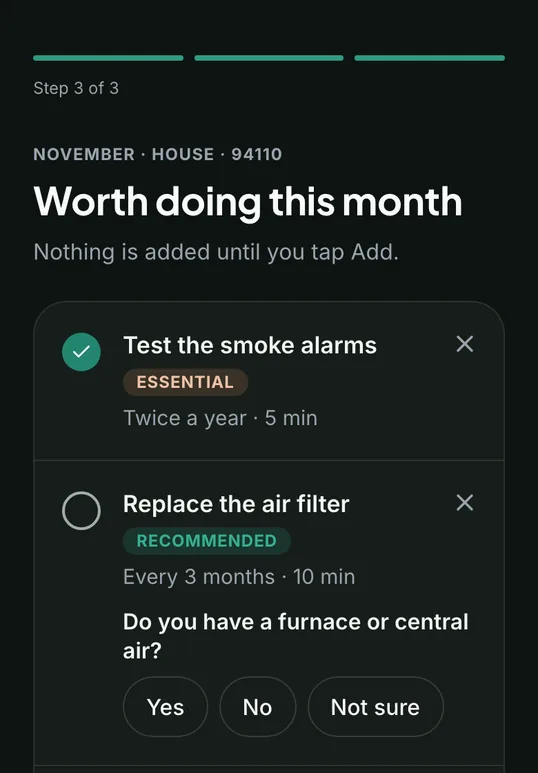
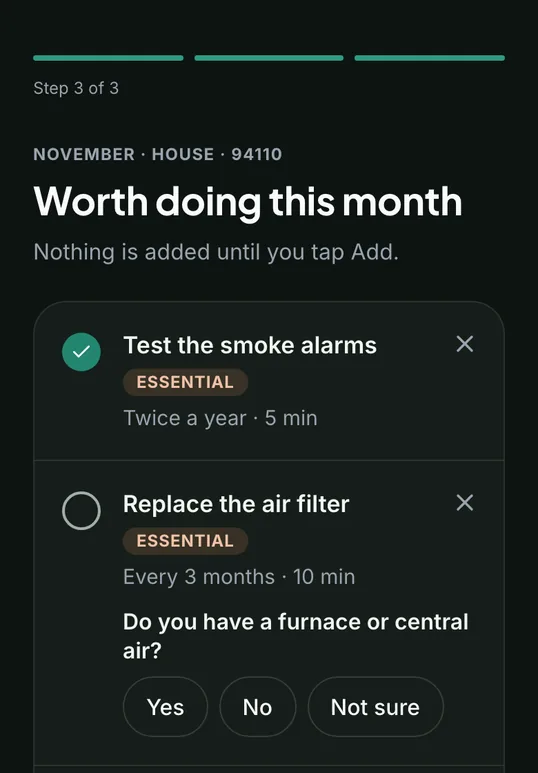
Welcome page: re-capture the first list (air filter now Essential); /beta Ask headline (#311)
- public/landing/first-list-{light,dark}.webp re-captured from the emulator
  after #310 made the air filter Essential. The #309 capture still showed it
  as Recommended, which the live app no longer says.
- public/beta.html: the Ask headline "Answers from your manuals" becomes
  "Answers about your home", matching the welcome page (owner-approved m6
  wording). copyBeforeFriends.test.ts pins both directions.
- BACKLOG.md: drop the now-done welcome-page headline item; add the three
  follow-ups #309/#310 leave (sub-type not reaching the care library, the
  first list's tier order vs the D8 mock, Share/Copy untested on an iPhone).

Changed region(s): [[0.2082, 0.6831, 0.5353, 0.7141]]

diff --git a/src/lib/copyBeforeFriends.test.ts b/src/lib/copyBeforeFriends.test.ts
@@ -58,6 +58,7 @@ const BETA_NEW = [
   "with proactive reminders so nothing slips.",
 ]
 const BETA_OLD = [
+  "<h3>Answers from your manuals</h3>",
   "Scan a label or type the brand and model. Homehub files each item by room, with its manual, warranty and notes in one place.",
   "<strong>By room,</strong>",
   "with calm reminders so nothing slips.",
@@ -83,6 +84,9 @@ describe("before-friends copy (mock 3)", () => {
   })
   it.each(BETA_OLD)("/beta no longer says %s", (s) => {
     expect(beta).not.toContain(s)
+  })
+  it("/beta's Ask headline matches the welcome page (seventeen fixes, m6)", () => {
+    expect(beta).toContain("<h3>Answers about your home</h3>")
   })
 
   it("no new sentence carries an em dash", () => {

diff --git a/public/beta.html b/public/beta.html
@@ -264,7 +264,7 @@
         <div>
           <div class="feature-head">
             <span class="tile"><svg class="icon"><use href="#i-sparkles"/></svg></span>
-            <div><div class="kicker">Ask</div><h3>Answers from your manuals</h3></div>
+            <div><div class="kicker">Ask</div><h3>Answers about your home</h3></div>
           </div>
           <p class="feature-text">Ask a question about any item and get a clear, sourced answer in seconds. No manual yet? You still get general guidance.</p>
           <ul class="points">

diff --git a/BACKLOG.md b/BACKLOG.md
@@ -65,8 +65,6 @@ branch that added it._
   keep a hash of the reviewed payload with the commit and refuse a different one.
 - **Replace does not carry the typical task's last-done date** to the
   manual's task (D2). The mock's "Its last done date carries over" was cut.
-- **The welcome page's Ask headline** ("Answers from your manuals",
-  `src/pages/Landing.tsx`) is still manual-first.
 - **How often the model lookup recognises a real model is unmeasured.**
 - **`kindOf` reads hyphens as spaces in the item's category only** (PR C),
   not in its name or model: "Heat-Pump Dryer" stays a dryer, which is right,
@@ -74,6 +72,21 @@ branch that added it._
   revisit if a kind is missed for that reason.
 
 ---
+
+## Seventeen fixes (#309, #310, 2026-11-26) — what they leave
+
+- **Re-filing a self-named item doesn't reach the care library.** A washer
+  she named "front loader" and then filed as Major appliance → Washing
+  machine saves the category LABEL ("Major Appliance"); the care library's
+  `kindOf` reads that text, not `sub_type`, so the item still gets no typical
+  care and no chips. Fix: make `kindOf` read `sub_type` first.
+- **The first list's order moved** when the air filter became Essential: the
+  list sorts by tier, so the filter now sits above outdoor taps (Minneapolis,
+  November) and hurricane prep (Miami, May), unlike the approved D8 mock.
+  Owner call: keep tier order, or put the seasonal task first.
+- **Share Link / Copy untested on a real iPhone** (#310). Safari may refuse
+  the copy after a dismissed share sheet; "Couldn't copy" plus the link field
+  cover it.
 
 ## Demo feedback 2026-11-17 — seven items, directions decided 2026-11-18, none built
 
